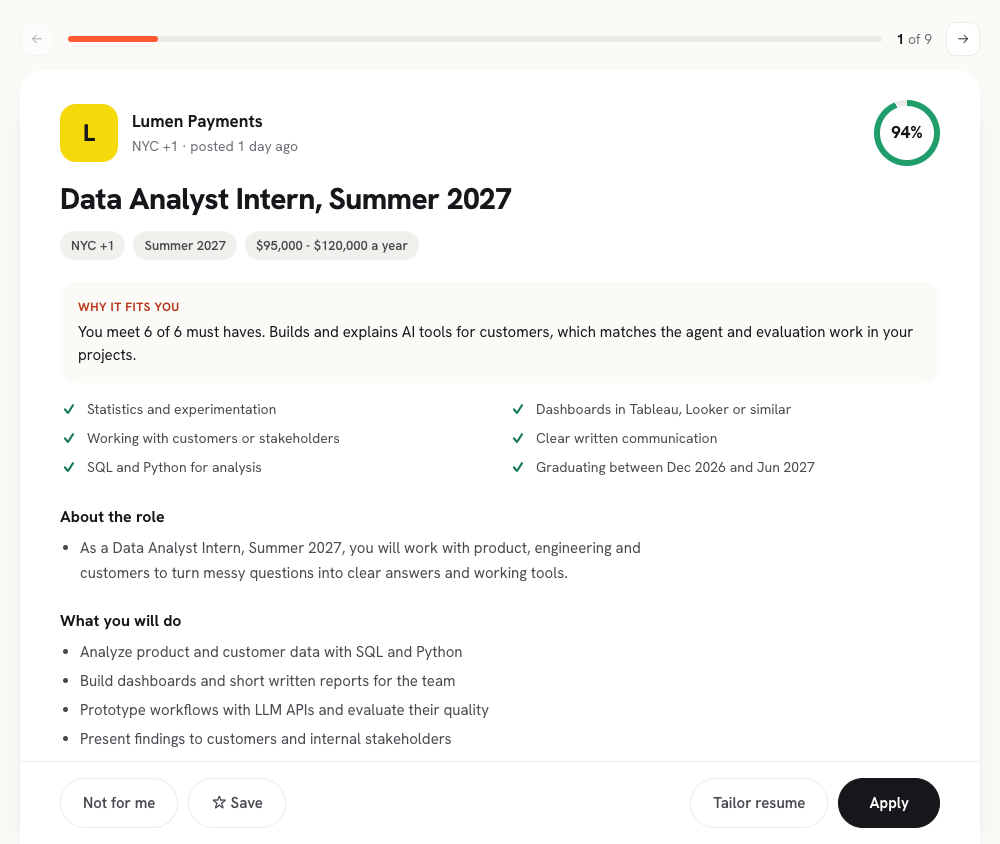
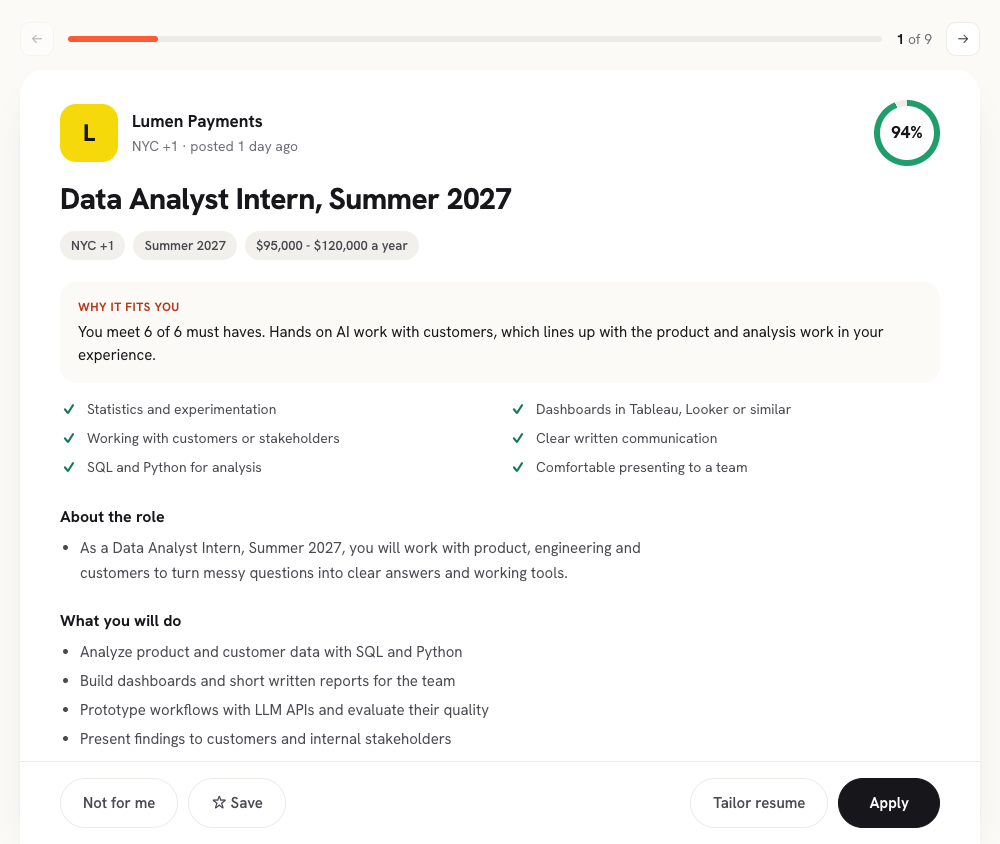
README images: generic sample fit lines, Search funnel only

diff --git a/README.md b/README.md
@@ -12,7 +12,7 @@ and has Claude judge the rest against the candidate's own work history.
 [![Checked with mypy](https://img.shields.io/badge/mypy-checked-blue)](pyproject.toml)
 [![License: MIT](https://img.shields.io/badge/license-MIT-yellow.svg)](LICENSE)
 
-![Stepping through matched roles, then the Search page showing how a search narrows tens of thousands of postings to a short list](docs/images/tour.gif)
+![Stepping through matched roles, then the Search funnel showing how a search narrows tens of thousands of postings to a short list](docs/images/tour.gif)
 
 These screens come from the private app that runs on this engine, filled with
 made up companies, roles and run numbers for the screenshots. The app and real
